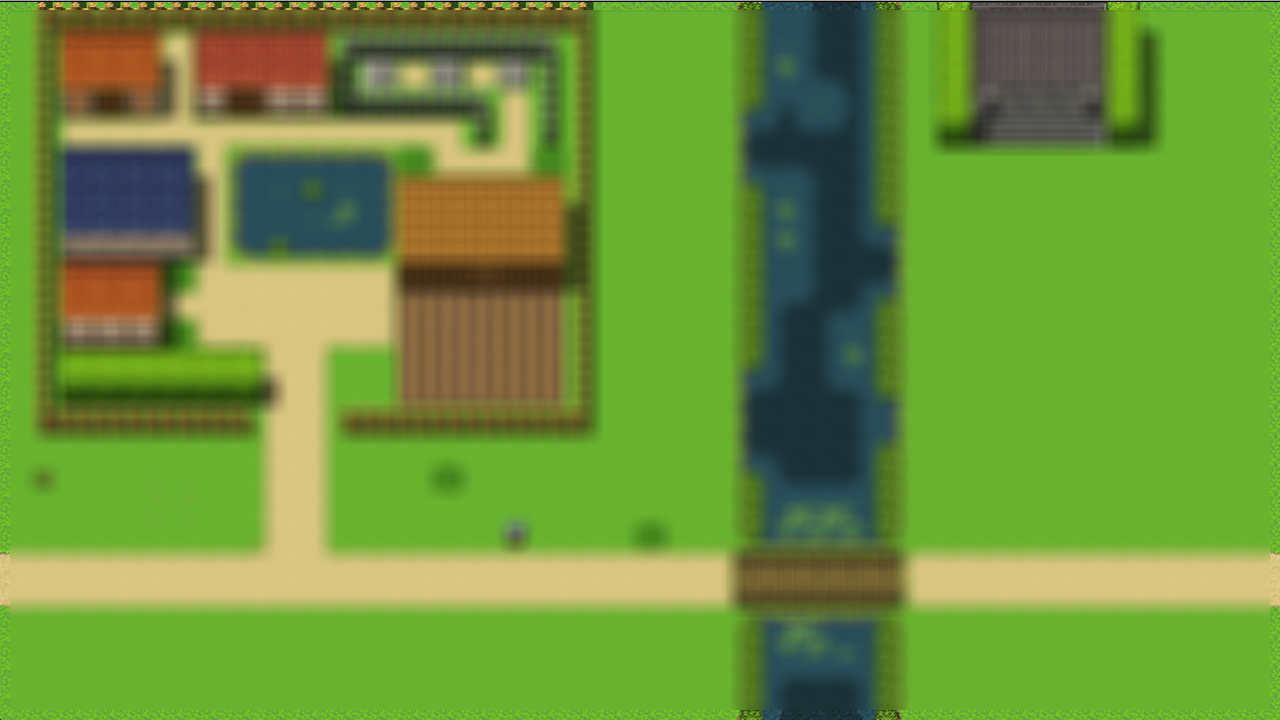
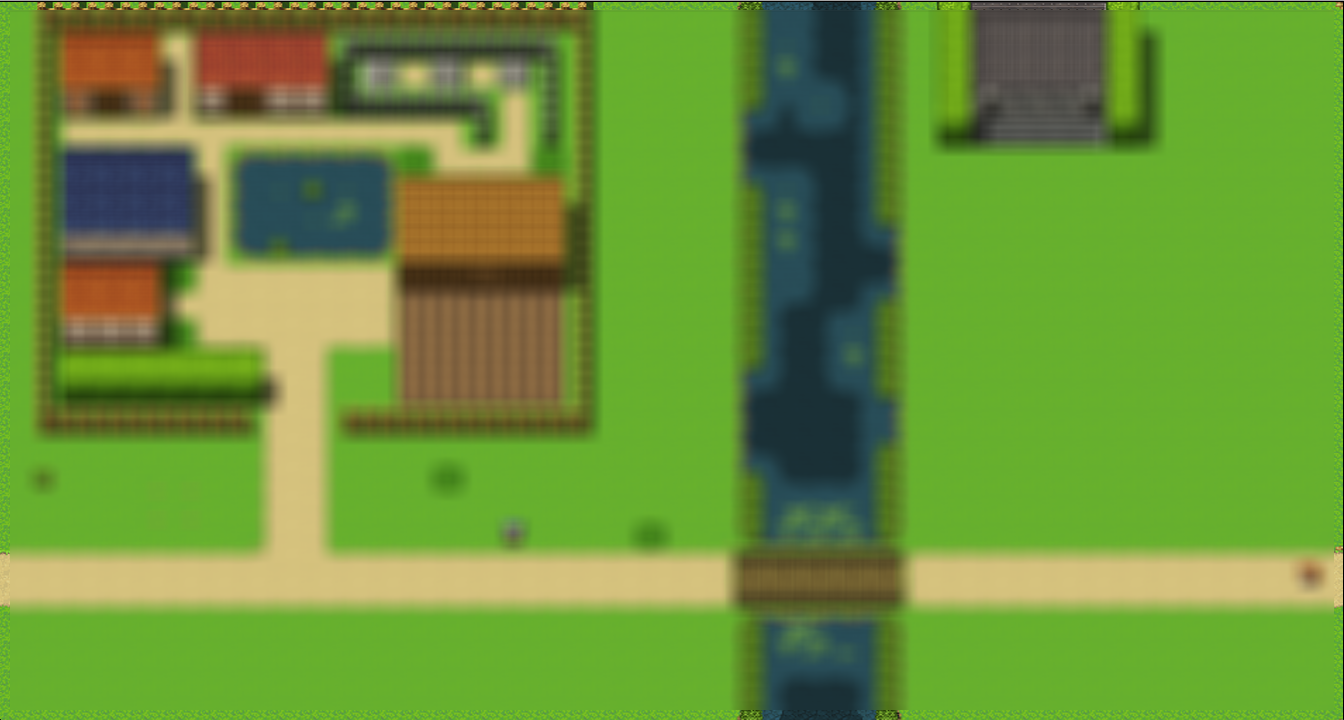
Actualización

diff --git a/src/utils/ScreenClass.java b/src/utils/ScreenClass.java
@@ -22,7 +22,7 @@ public class ScreenClass {
             double mouseX = MouseInfo.getPointerInfo().getLocation().getX() - bWspX;
             double mouseY = MouseInfo.getPointerInfo().getLocation().getY() - bWspY;
 
-            Rectangle GAMEscreenRect = new Rectangle((int) mouseX, (int) mouseY, 1280, 720);
+            Rectangle GAMEscreenRect = new Rectangle((int) mouseX, (int) mouseY, 1344, 720);
 
             BufferedImage capture = new Robot().createScreenCapture(GAMEscreenRect);
 
@@ -32,7 +32,7 @@ public class ScreenClass {
             }
 
             BufferedImageOp op = new ConvolveOp(new Kernel(20, 20, matrix), ConvolveOp.EDGE_NO_OP, null);
-            BufferedImage capture1 = new BufferedImage(1280, 720, BufferedImage.TYPE_INT_RGB);
+            BufferedImage capture1 = new BufferedImage(1344, 720, BufferedImage.TYPE_INT_RGB);
             nrScreena++;
             ImageIO.write(op.filter(capture, capture1), "png", new File("graphic/menu/skrin" + nrScreena + ".png"));
             if (nrScreena > 2) {
